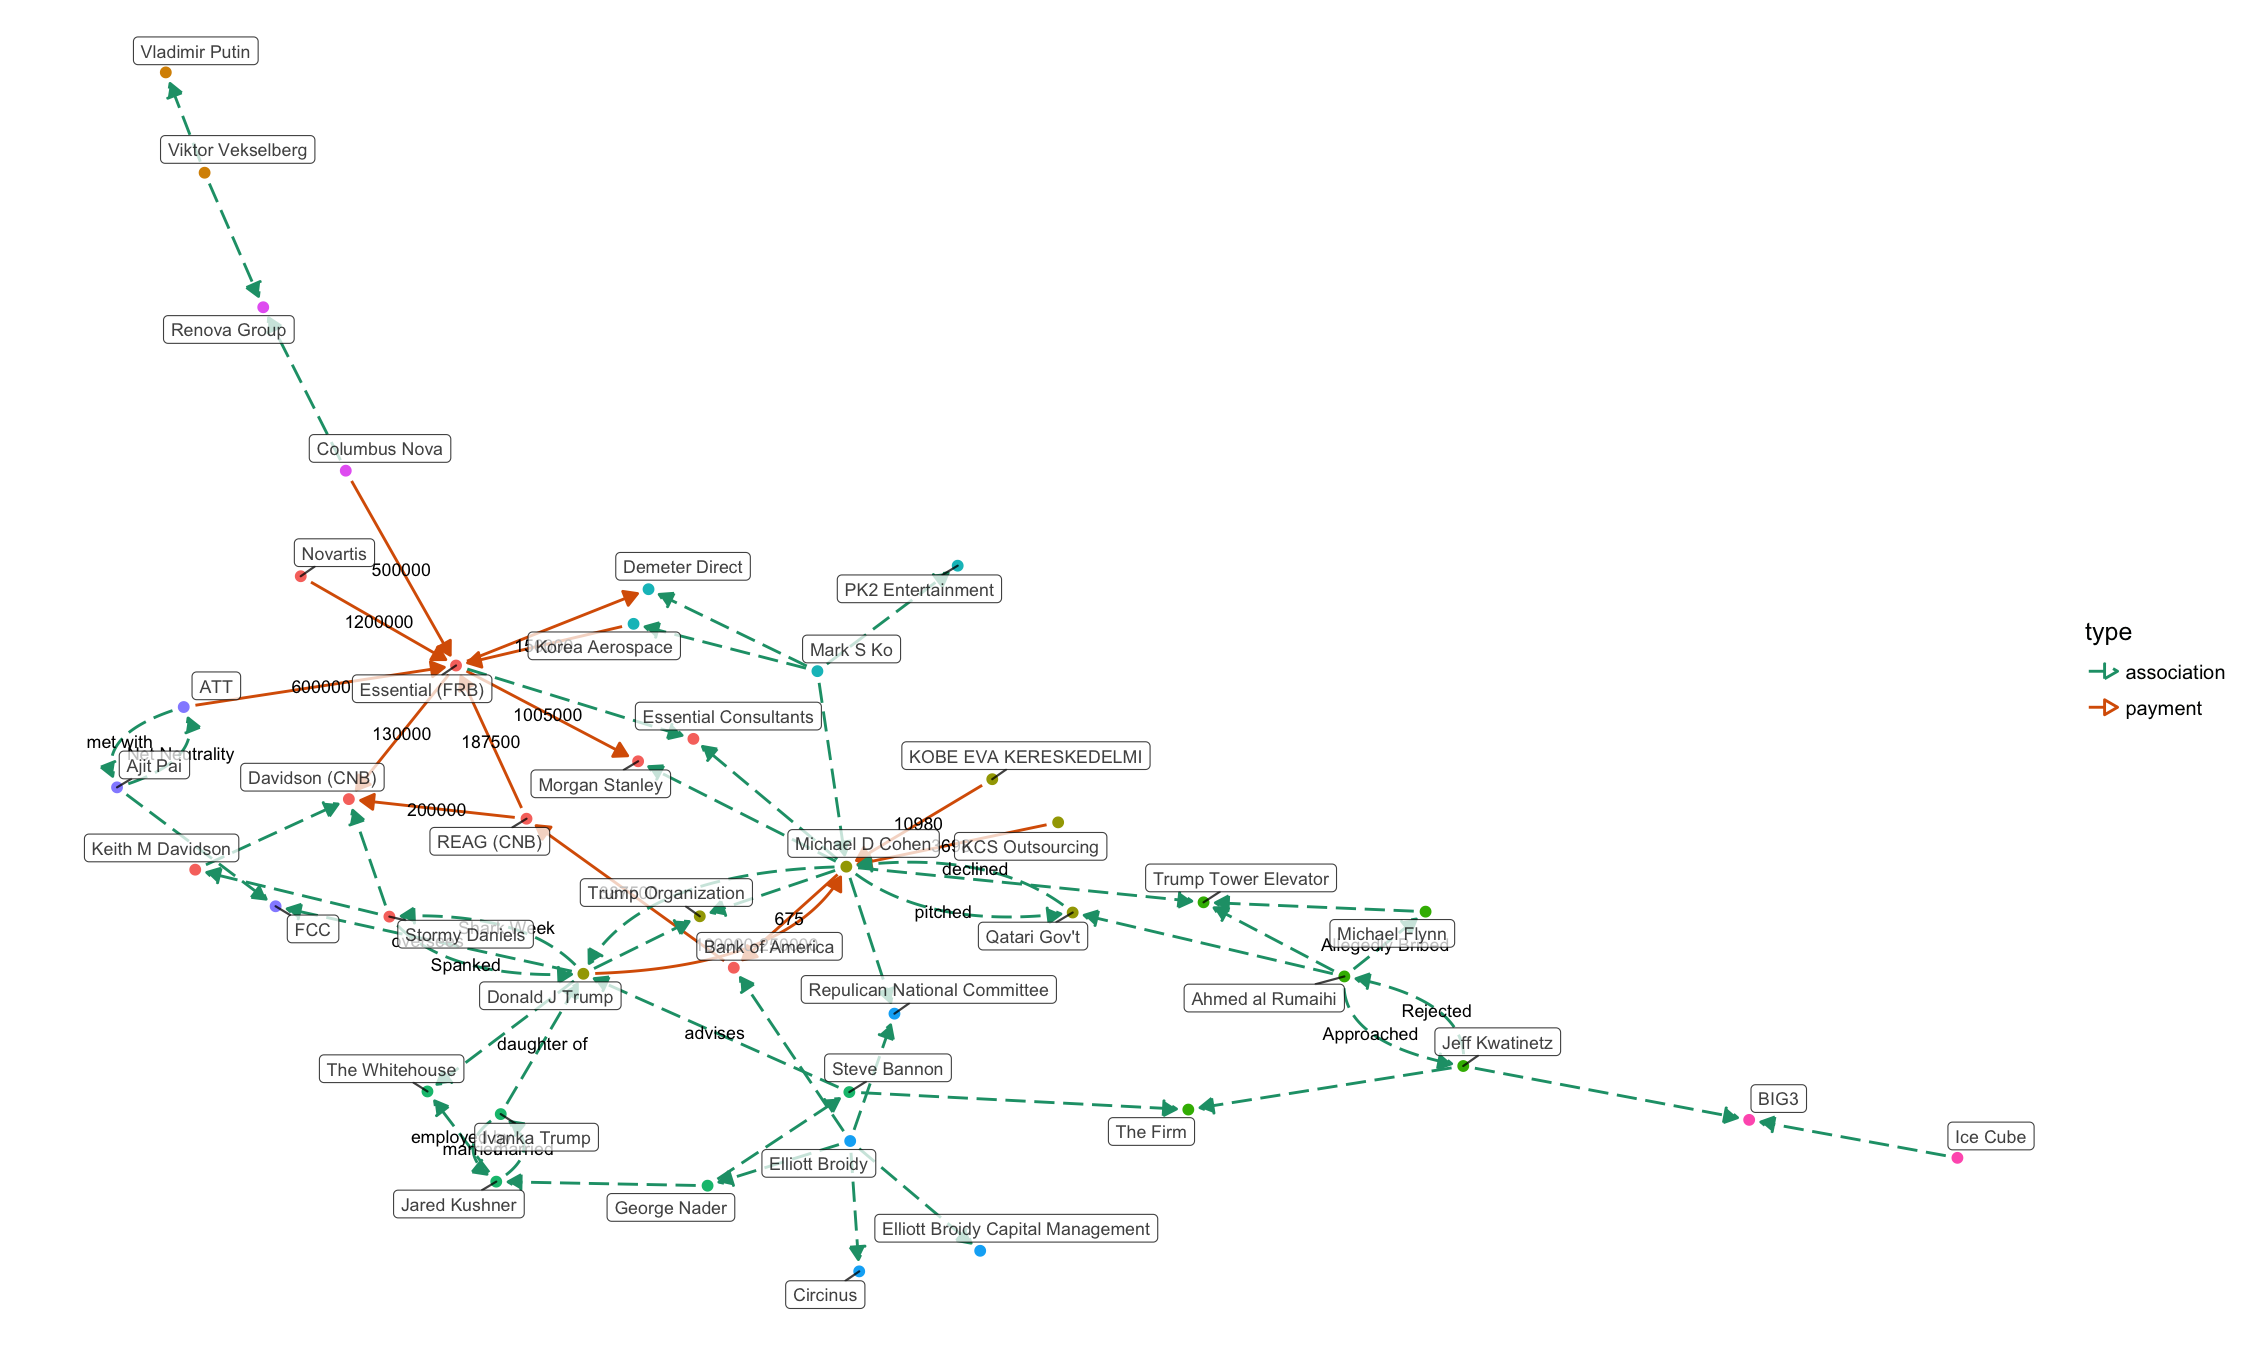
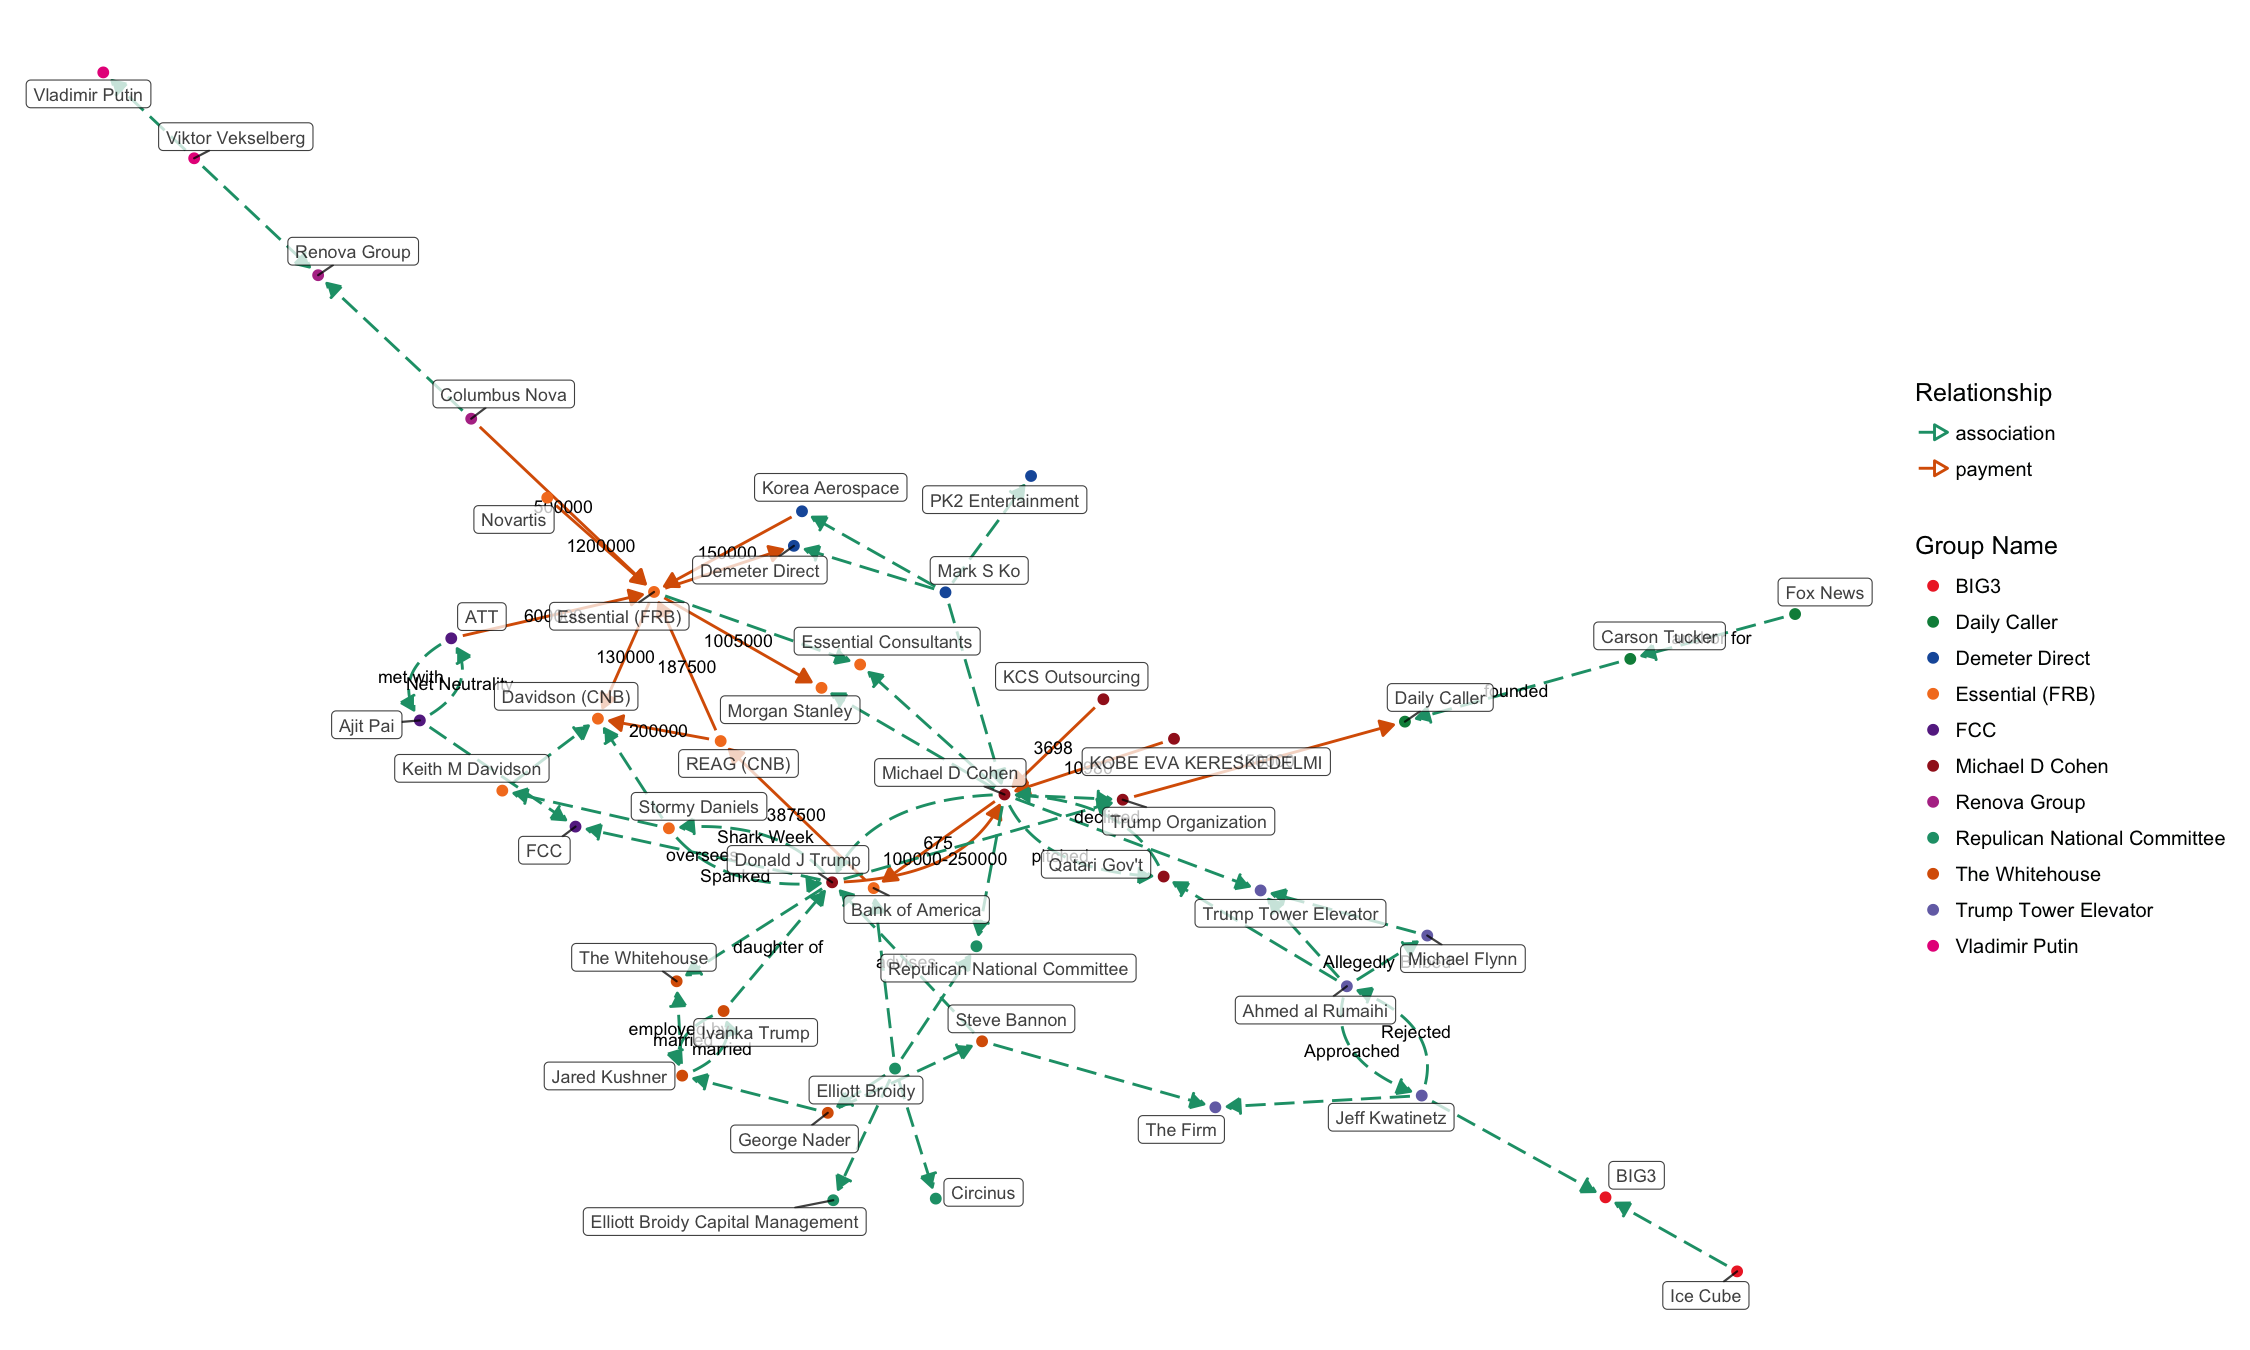
updated

diff --git a/docs/tangled-d3.html b/docs/tangled-d3.html
@@ -1143,11 +1143,11 @@ return function(){for(var n=0,e=0;e<t;++e)n+=Math.random();return n}},um=functio
 </head>
 <body style="background-color: white;">
 <div id="htmlwidget_container">
-<div id="htmlwidget-8a794c5e47b2110b7a64" class="forceNetwork html-widget" style="width:960px;height:500px;">
+<div id="htmlwidget-abaf185742cd6322843e" class="forceNetwork html-widget" style="width:960px;height:500px;">
 
 </div>
 </div>
-<script type="application/json" data-for="htmlwidget-8a794c5e47b2110b7a64">{"x":{"links":{"source":[0,1,2,3,4,4,4,5,6,7,8,9,10,10,4,8,2,11,8,12,13,13,11,14,14,14,14,8,3,3,13,8,8,15,15,15,15,3,8,16,17,17,18,19,18,18,20,17,17,21,3,21,0,20,14,22,22,23,23,24,24,8,25],"target":[4,10,4,8,26,27,28,8,8,4,1,4,26,4,29,29,30,30,3,26,26,12,31,32,33,34,1,28,35,13,3,36,32,27,37,8,7,36,38,38,38,18,17,39,40,39,40,25,16,0,41,41,21,3,22,20,23,35,24,23,3,25,8],"colour":["red","red","red","red","red","red","red","red","red","red","red","red","red","red","blue","blue","blue","blue","blue","blue","blue","blue","blue","blue","blue","blue","blue","blue","blue","blue","blue","blue","blue","blue","blue","blue","blue","blue","blue","blue","blue","blue","blue","blue","blue","blue","blue","blue","blue","blue","blue","blue","blue","blue","blue","blue","blue","blue","blue","blue","blue","blue","blue"]},"nodes":{"name":["ATT","Bank of America","Columbus Nova","Donald J Trump","Essential (FRB)","KCS Outsourcing","KOBE EVA KERESKEDELMI","Korea Aerospace","Michael D Cohen","Novartis","REAG (CNB)","Viktor Vekselberg","Keith M Davidson","Stormy Daniels","Elliott Broidy","Mark S Ko","Michael Flynn","Ahmed al Rumaihi","Jeff Kwatinetz","Ice Cube","Steve Bannon","Ajit Pai","George Nader","Jared Kushner","Ivanka Trump","Qatari Gov't","Davidson (CNB)","Demeter Direct","Morgan Stanley","Essential Consultants","Renova Group","Vladimir Putin","Repulican National Committee","Elliott Broidy Capital Management","Circinus","The Whitehouse","Trump Organization","PK2 Entertainment","Trump Tower Elevator","BIG3","The Firm","FCC"],"group":["7","1","8","2","1","2","2","5","2","1","1","10","1","1","6","5","3","3","3","9","4","7","4","4","4","2","1","5","1","1","8","10","6","6","6","4","2","5","3","9","3","7"]},"options":{"NodeID":"name","Group":"group","colourScale":"d3.scaleOrdinal(d3.schemeCategory20);","fontSize":20,"fontFamily":"serif","clickTextSize":50,"linkDistance":50,"linkWidth":"function(d) { return Math.sqrt(d.value); }","charge":-100,"opacity":1,"zoom":false,"legend":false,"arrows":false,"nodesize":false,"radiusCalculation":" Math.sqrt(d.nodesize)+6","bounded":false,"opacityNoHover":1,"clickAction":null}},"evals":[],"jsHooks":[]}</script>
-<script type="application/htmlwidget-sizing" data-for="htmlwidget-8a794c5e47b2110b7a64">{"viewer":{"width":450,"height":350,"padding":10,"fill":true},"browser":{"width":960,"height":500,"padding":10,"fill":true}}</script>
+<script type="application/json" data-for="htmlwidget-abaf185742cd6322843e">{"x":{"links":{"source":[0,1,2,3,4,4,4,5,6,7,8,9,10,10,11,4,8,2,12,8,13,14,14,12,15,15,15,15,8,3,3,14,8,8,16,16,16,16,3,8,17,18,18,19,20,19,19,21,18,18,22,3,22,0,21,15,23,23,24,24,25,25,8,26,27,28],"target":[4,10,4,8,29,30,31,8,8,4,1,4,29,4,32,33,33,34,34,3,29,29,13,35,36,37,38,1,31,39,14,3,11,36,30,40,8,7,11,41,41,41,19,18,42,43,42,43,26,17,0,44,44,22,3,23,21,24,39,25,24,3,26,8,32,27],"colour":["red","red","red","red","red","red","red","red","red","red","red","red","red","red","red","blue","blue","blue","blue","blue","blue","blue","blue","blue","blue","blue","blue","blue","blue","blue","blue","blue","blue","blue","blue","blue","blue","blue","blue","blue","blue","blue","blue","blue","blue","blue","blue","blue","blue","blue","blue","blue","blue","blue","blue","blue","blue","blue","blue","blue","blue","blue","blue","blue","blue","blue"]},"nodes":{"name":["ATT","Bank of America","Columbus Nova","Donald J Trump","Essential (FRB)","KCS Outsourcing","KOBE EVA KERESKEDELMI","Korea Aerospace","Michael D Cohen","Novartis","REAG (CNB)","Trump Organization","Viktor Vekselberg","Keith M Davidson","Stormy Daniels","Elliott Broidy","Mark S Ko","Michael Flynn","Ahmed al Rumaihi","Jeff Kwatinetz","Ice Cube","Steve Bannon","Ajit Pai","George Nader","Jared Kushner","Ivanka Trump","Qatari Gov't","Carson Tucker","Fox News","Davidson (CNB)","Demeter Direct","Morgan Stanley","Daily Caller","Essential Consultants","Renova Group","Vladimir Putin","Repulican National Committee","Elliott Broidy Capital Management","Circinus","The Whitehouse","PK2 Entertainment","Trump Tower Elevator","BIG3","The Firm","FCC"],"group":["8","1","9","2","1","2","2","5","2","1","1","2","11","1","1","6","5","3","3","3","10","4","8","4","4","4","2","7","7","1","5","1","7","1","9","11","6","6","6","4","5","3","10","3","8"]},"options":{"NodeID":"name","Group":"group","colourScale":"d3.scaleOrdinal(d3.schemeCategory20);","fontSize":20,"fontFamily":"serif","clickTextSize":50,"linkDistance":50,"linkWidth":"function(d) { return Math.sqrt(d.value); }","charge":-100,"opacity":1,"zoom":false,"legend":false,"arrows":false,"nodesize":false,"radiusCalculation":" Math.sqrt(d.nodesize)+6","bounded":false,"opacityNoHover":1,"clickAction":null}},"evals":[],"jsHooks":[]}</script>
+<script type="application/htmlwidget-sizing" data-for="htmlwidget-abaf185742cd6322843e">{"viewer":{"width":450,"height":350,"padding":10,"fill":true},"browser":{"width":960,"height":500,"padding":10,"fill":true}}</script>
 </body>
 </html>
